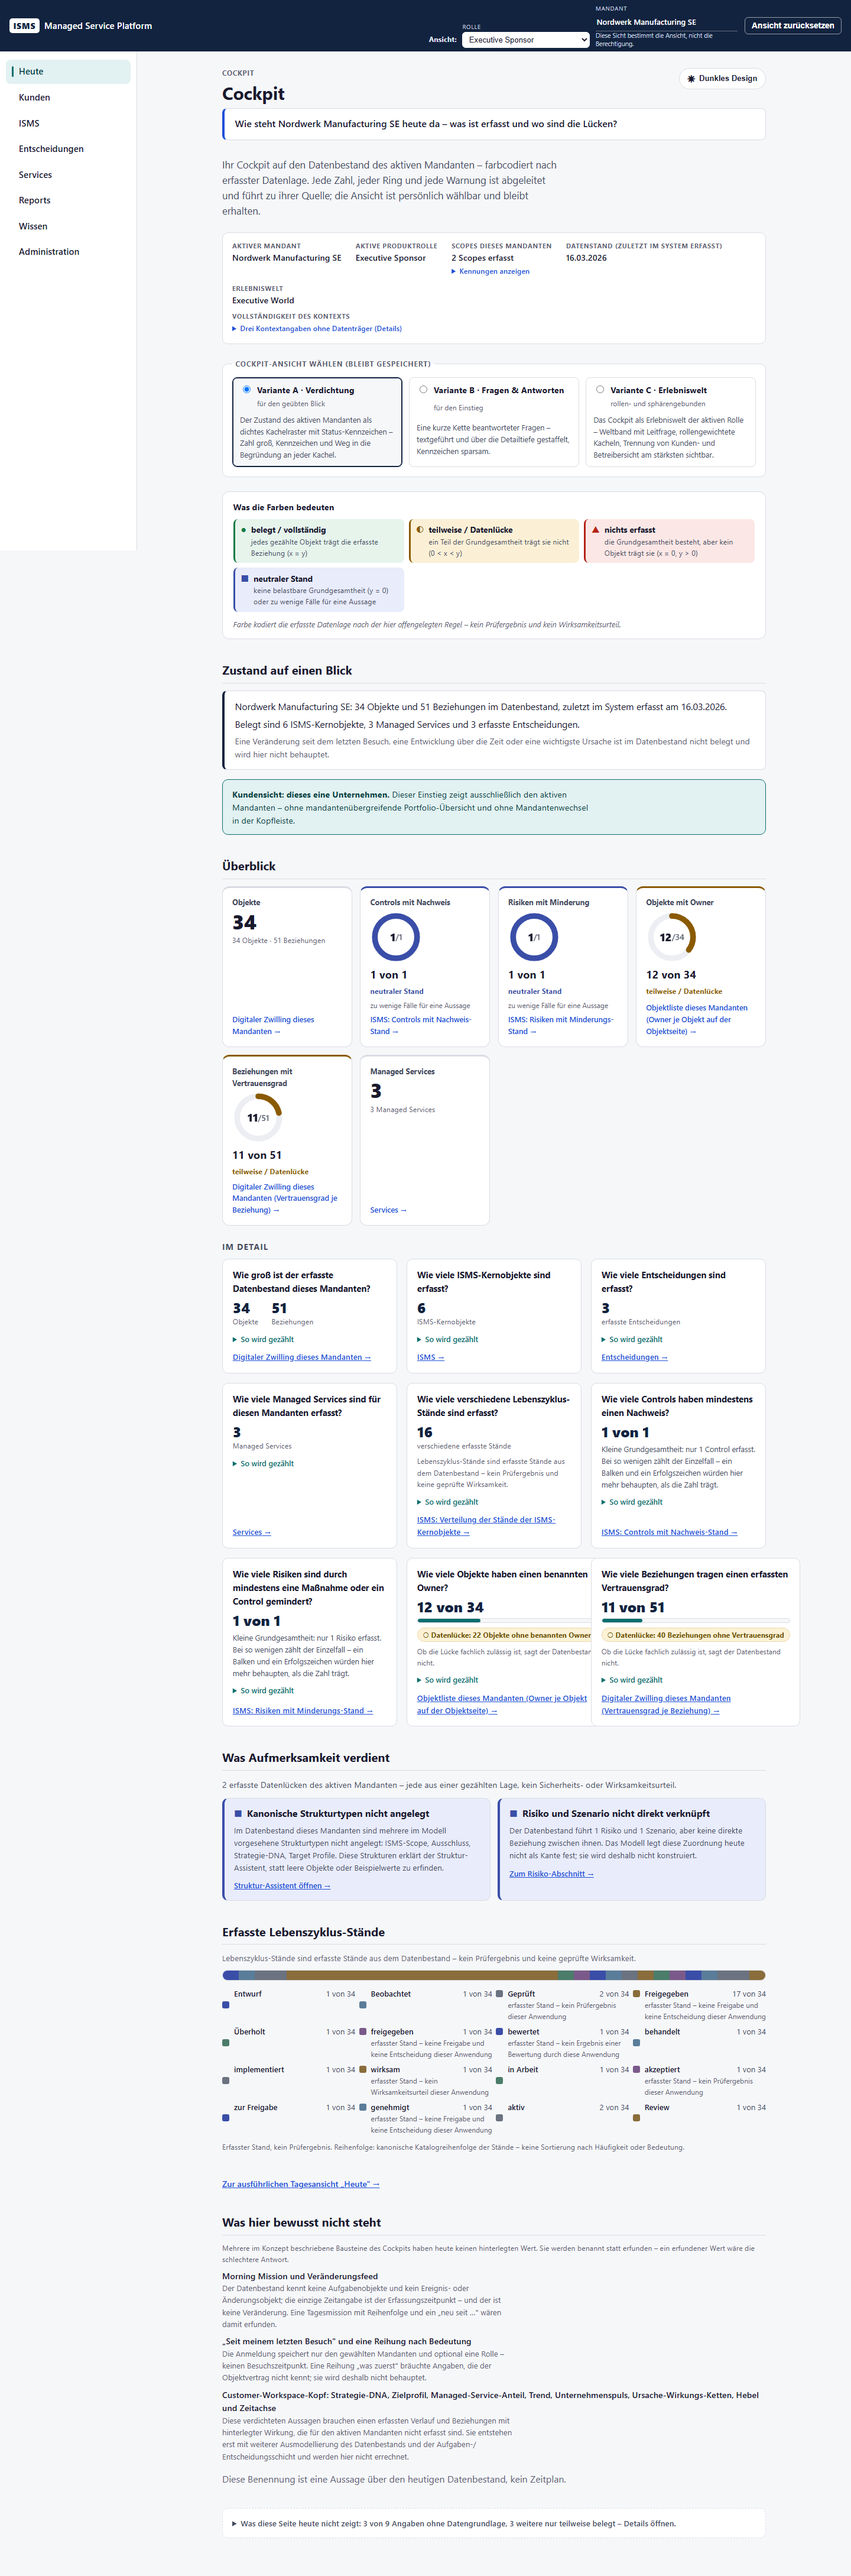
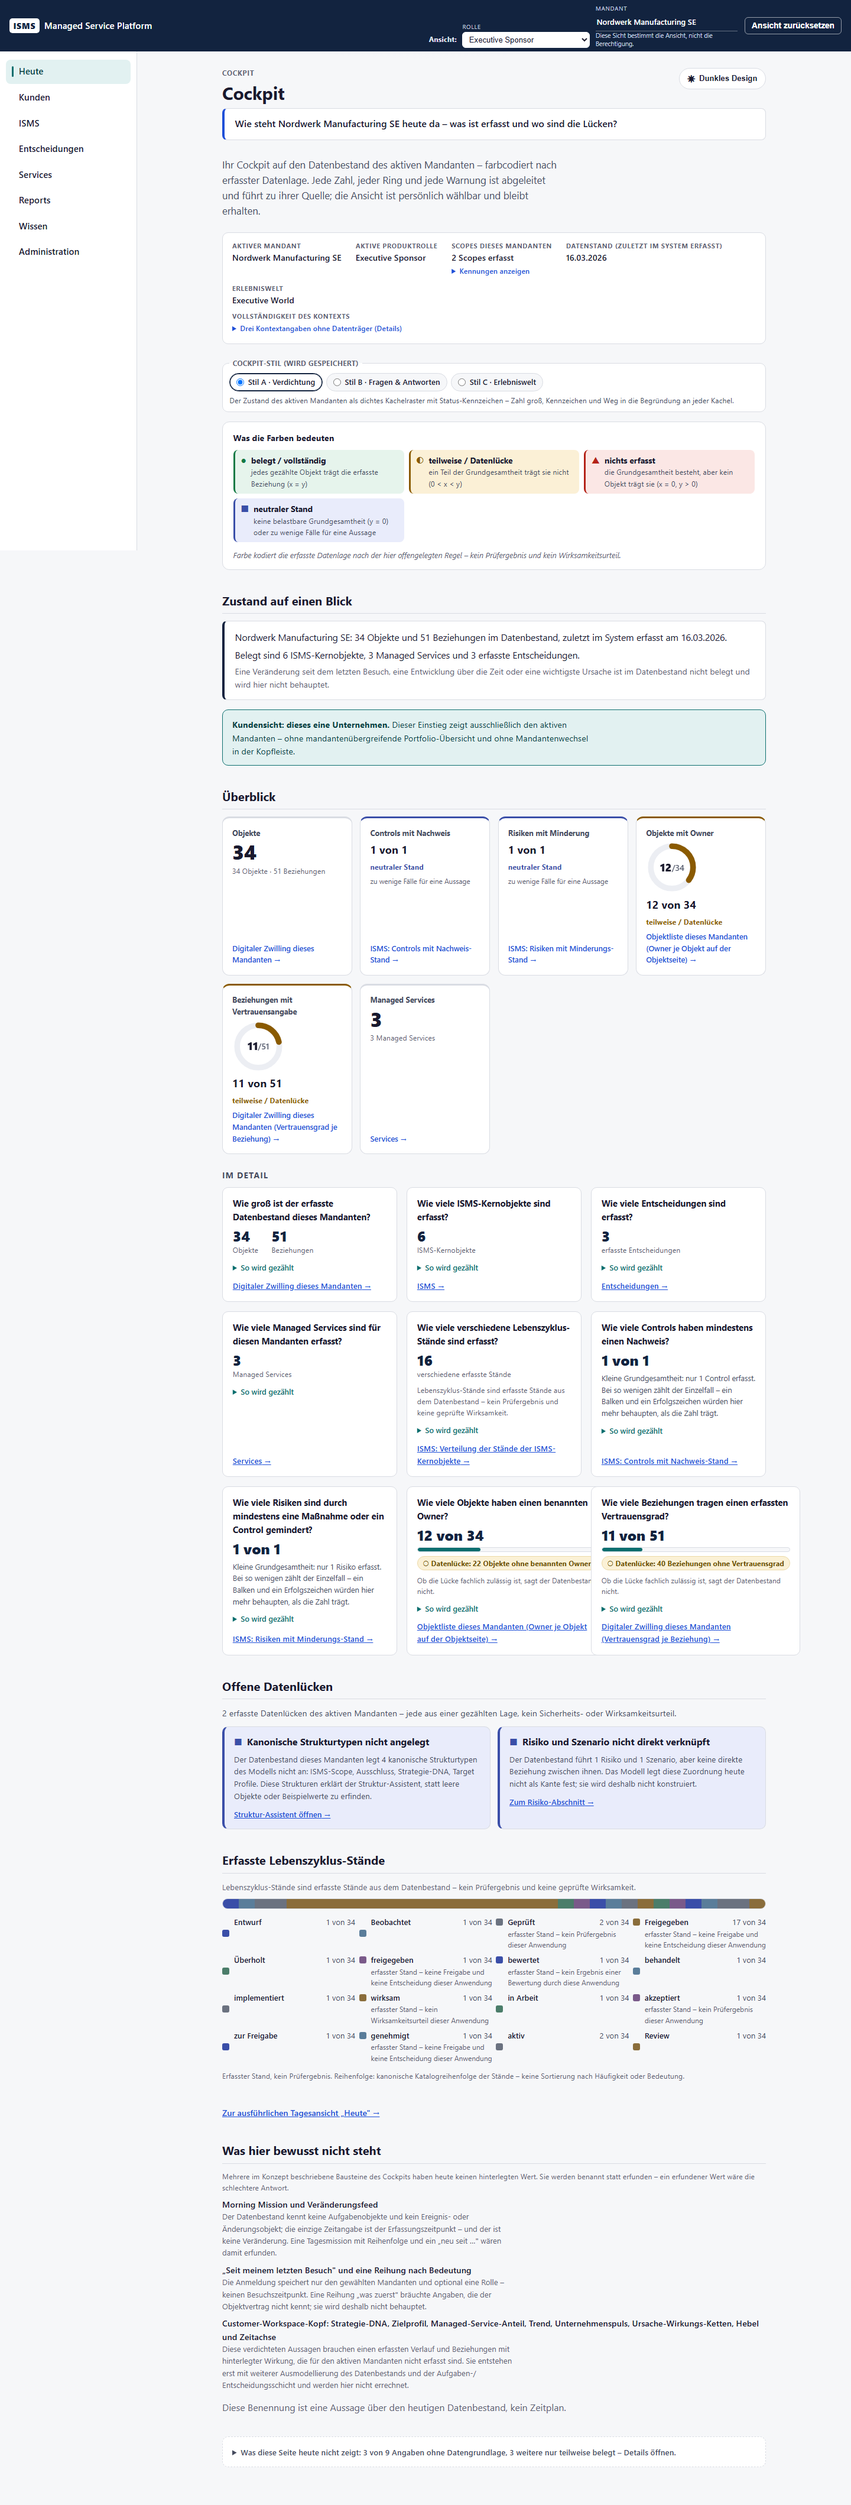
fix(web): Dunkelmodus-Kontrast + Nit-Kommentare + Dark-axe-Motiv (Cockpit abgeschlossen)
Gate-Runde 2: 3x FREIGABE, keine Regression. Danach separater Dark-axe-Check (neues qa:visual-
Motiv cockpit-dunkel, fullPage) fand 1 serious color-contrast: die wiederverwendeten .db-*
Dashboard-Kacheln ziehen Textfarben aus --shell-navy/--shell-teal, die im Dunkel-Scope nicht
remappt waren (dunkler Text auf dunklem Grund, Kontrast 1.01). Fix: --shell-navy im
[data-ck-theme=dunkel]-Block hell; Teal-Vordergrund (.db-regel summary, .db-drill) auf helles
Teal ueberschrieben (--shell-teal NICHT global umgemappt, da auch Hintergrund). cockpit-dunkel
jetzt axe 0. Nit (Product-Gate): veraltete 'Vergleich/Entwuerfe'-CSS-Kommentare auf
Personalisierungs-/DR-0014-Sprache umgeschrieben.

Verifikation: typecheck 7/7, lint clean, axe 0 ueber alle 19 Motive (inkl. cockpit-dunkel).
Cockpit (DR-0014) damit inhaltlich fertig: modern, farbig, funktional, hell+dunkel, ehrlich.

diff --git a/apps/web/app/globals.css b/apps/web/app/globals.css
@@ -1609,13 +1609,13 @@ summary {
 }
 
 /* =============================================================================
-   Cockpit-Varianten-Vergleich (WP-025, DR-0010 Nr. 3): drei Start-Entwürfe auf
-   EINEM Datenmodell. Reine Layout-Schicht – reuse der db-/ht-/rv-/sv-Bausteine;
-   die ck-Klassen tragen nur den Varianten-Umschalter, das Weltband und den
+   Cockpit – moderne Dashboard-Schicht (WP-025, DR-0014): eine Startseite; A/B/C ist
+   dezente Stil-Personalisierung (DR-0012), kein Varianten-Vergleich. Reine Layout-Schicht –
+   reuse der db-/ht-/rv-/sv-Bausteine; die ck-Klassen tragen nur den Stil-Umschalter, das Weltband und den
    Management-Modus. Keine Animation (nichts, was prefers-reduced-motion bräuchte).
    ========================================================================== */
 
-/* Einstiegslink von „Heute" in den Vergleich (rollen-neutral, eigene Klasse). */
+/* Einstiegslink von „Heute" ins Cockpit (rollen-neutral, eigene Klasse). */
 .ht-cockpit {
   margin: 0 0 1.25rem;
   font-size: 0.9rem;
@@ -1796,7 +1796,20 @@ summary {
   --tw-surface-2: #191c24;
   --tw-accent: #93a4ff;
   --tw-focus: #93a4ff;
+
+  /* Wiederverwendete Heute-Dashboard-Kacheln (.db-*) ziehen Textfarben aus --shell-* (ausserhalb
+     des Cockpit-Scopes definiert, im Dunkelmodus sonst nicht remappt -> dunkler Text auf dunklem
+     Grund, axe color-contrast). --shell-navy ist reine Vorder-/Rahmenfarbe -> hier hell. */
+  --shell-navy: var(--ck-ink);
   color: var(--ck-ink);
+}
+
+/* Teal-Vordergrund der wiederverwendeten Kacheln (Regel-Aufklapper, Drill-down-Link) im
+   Dunkelmodus auf helles Teal statt des dunklen #0b6e6e. --shell-teal wird NICHT global umgemappt
+   (auch als Hintergrund genutzt); nur die Vordergrund-Nutzungen werden hier ueberschrieben. */
+.ck-cockpit[data-ck-theme="dunkel"] .db-regel > summary,
+.ck-cockpit[data-ck-theme="dunkel"] .db-drill {
+  color: #5ecfce;
 }
 
 .ck-kopf {

diff --git a/apps/web/qa/visual-abnahme.spec.e2e.ts b/apps/web/qa/visual-abnahme.spec.e2e.ts
@@ -388,4 +388,26 @@ test.describe('Sichtbare Abnahme (Screenshots + axe)', () => {
       await sammleAxe(page, `cockpit-variante-${variante}`, '/cockpit');
     });
   }
+
+  // Dunkelmodus des Cockpits (DR-0014, Fix nach Gate-Runde 1): Variante A mit gespeichertem Theme
+  // 'dunkel' – belegt visuell, dass der Umschalter wirklich greift, und prueft den Dunkel-Kontrast
+  // mit axe (der Theme-Schluessel ist modul-lokal, hier als Literal gesetzt).
+  test('cockpit-dunkel (/cockpit, Variante A · Dunkelmodus)', async ({ page }, testInfo) => {
+    test.skip(testInfo.project.name !== 'desktop', 'Cockpit-Dunkelmodus nur Desktop.');
+    await page.addInitScript(
+      ([vk, vv, tk, tv]) => {
+        window.localStorage.setItem(vk, vv);
+        window.localStorage.setItem(tk, tv);
+      },
+      [COCKPIT_STORAGE_KEY, serializeCockpitVariante('a'), 'isms-cockpit-theme-v1', 'dunkel'] as const,
+    );
+    await page.goto('/cockpit');
+    await warteAufSeite(page);
+    await expect(page.locator('[data-cockpit-variante="a"]')).toBeVisible();
+    await page.screenshot({
+      path: path.join(outDir as string, `cockpit-dunkel.${testInfo.project.name}.png`),
+      fullPage: true,
+    });
+    await sammleAxe(page, 'cockpit-dunkel', '/cockpit');
+  });
 });
